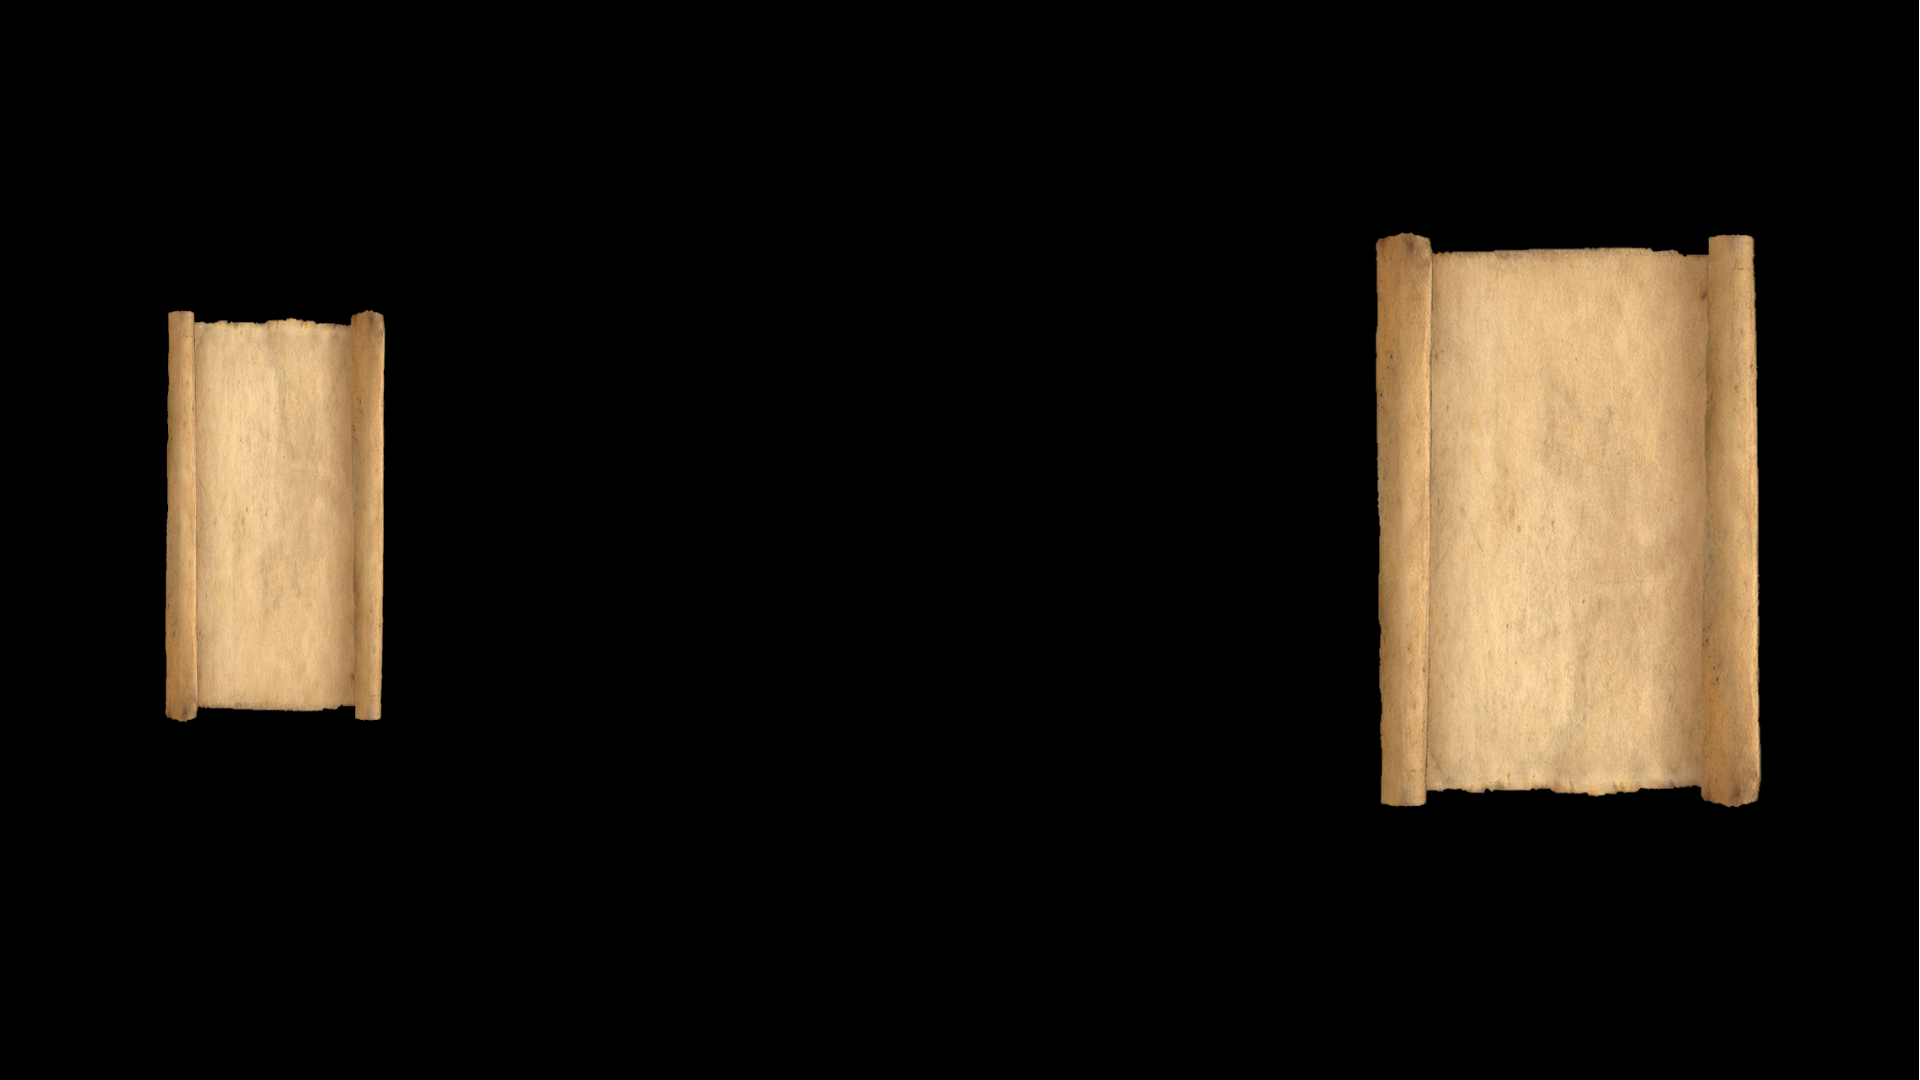
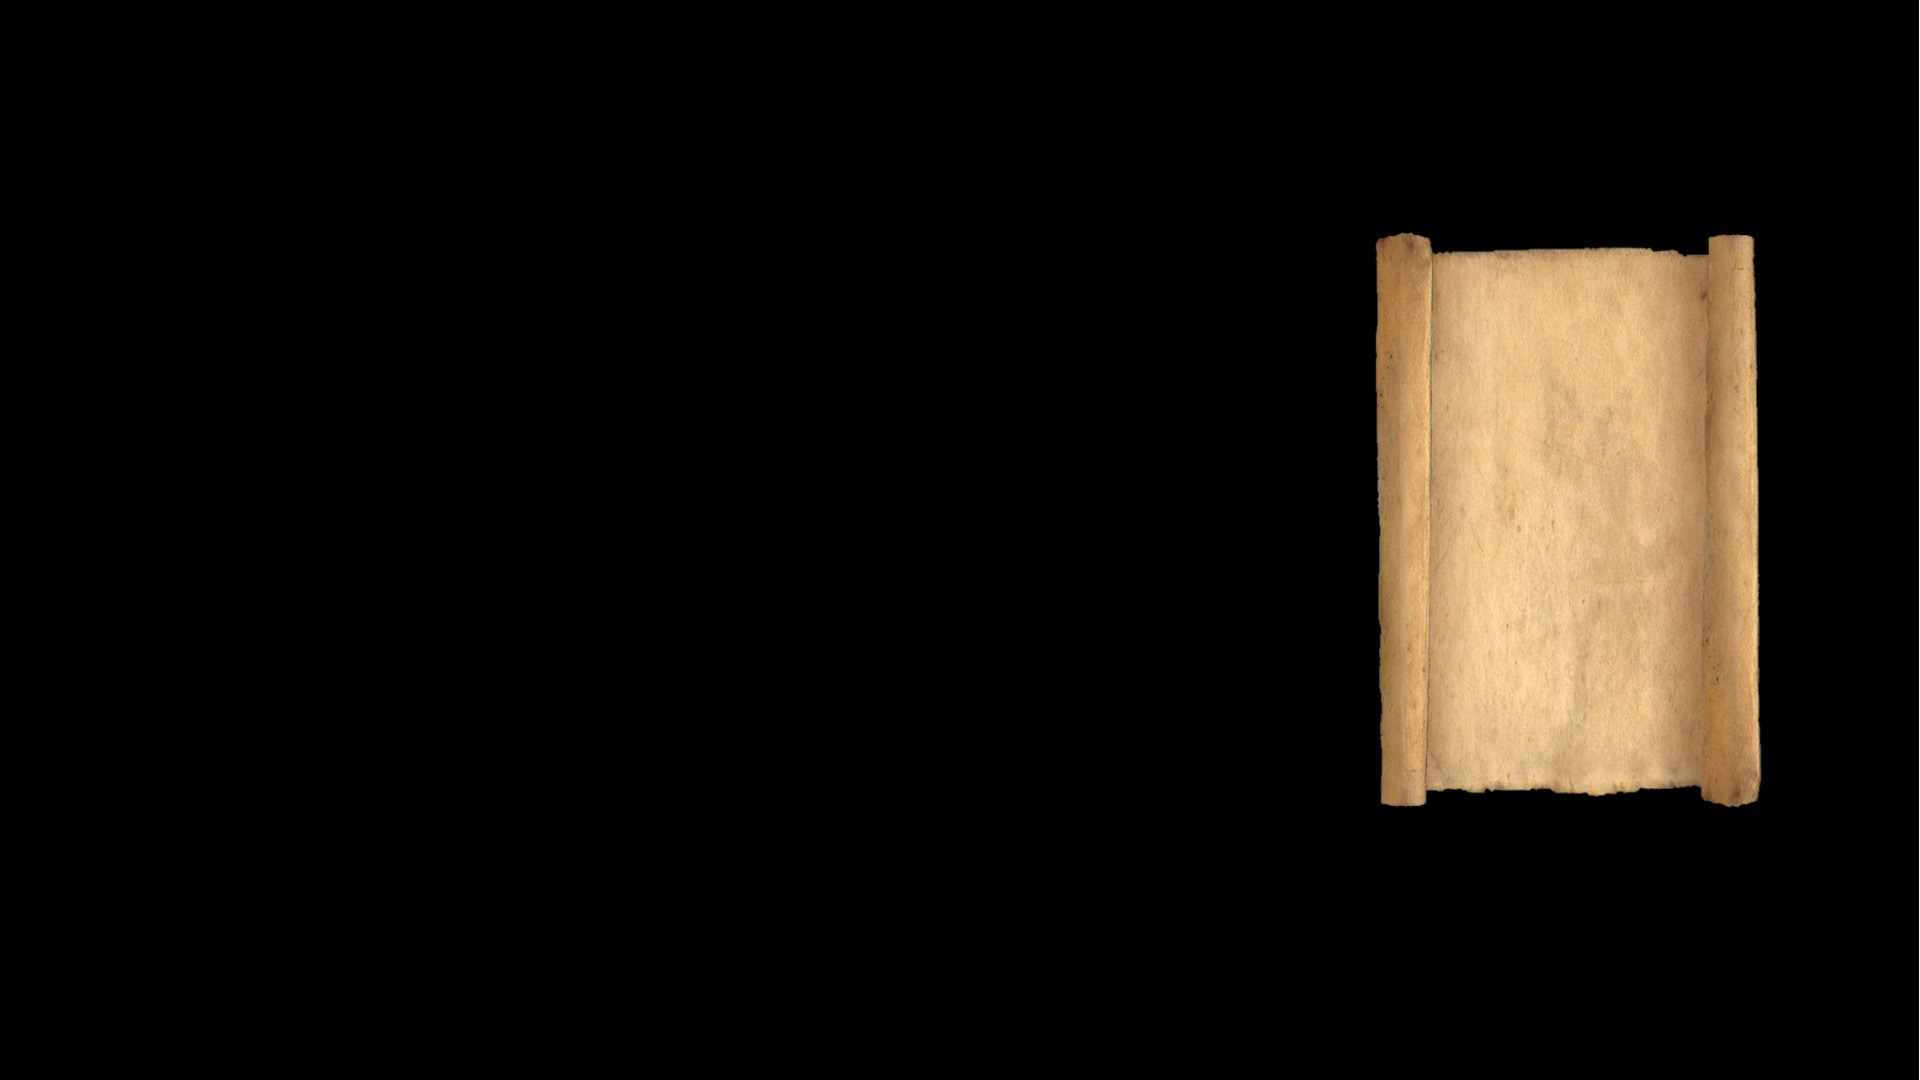
backgrounds work

Changed region(s): [[0.0625, 0.275, 0.2188, 0.6722]]

diff --git a/kiosk/ui.py b/kiosk/ui.py
@@ -85,18 +85,68 @@ class KioskUI:
         self.message_handler.timer.lift_to_top()
             
     def create_help_button(self):
-        """Creates the help request button"""
+        """Creates the help request button using room-specific image"""
         if self.help_button is None and not self.hint_cooldown:
-            self.help_button = tk.Button(
-                self.root,
-                text="REQUEST NEW HINT",
-                command=self.message_handler.request_help,
-                height=5, width=30,
-                font=('Arial', 24),
-                bg='blue', fg='white'
-            )
-            # Position button on the left side
-            self.help_button.place(relx=0.2, rely=0.5, anchor='center')
+            # Get the assigned room number
+            room_number = self.message_handler.assigned_room
+            if not room_number:
+                return
+                
+            # Use same room mapping as backgrounds to get button image
+            button_filename = self.room_config['backgrounds'][room_number]
+            # Replace extension with .png for button image
+            button_filename = button_filename.replace('.png', '.png')
+            button_path = os.path.join("Buttons", button_filename)
+            
+            try:
+                # Load and create button image
+                if os.path.exists(button_path):
+                    button_image = Image.open(button_path)
+                    # Scale button to reasonable size (adjust as needed)
+                    button_image = button_image.resize((400, 150), Image.Resampling.LANCZOS)
+                    button_photo = ImageTk.PhotoImage(button_image)
+                    
+                    # Create image button
+                    self.help_button = tk.Button(
+                        self.root,
+                        image=button_photo,
+                        command=self.message_handler.request_help,
+                        borderwidth=0,
+                        highlightthickness=0,
+                        bd=0,
+                        activebackground='black',
+                        bg='black'
+                    )
+                    # Keep reference to prevent garbage collection
+                    self.help_button.image = button_photo
+                    
+                    # Position button on the left side
+                    self.help_button.place(relx=0.2, rely=0.5, anchor='center')
+                else:
+                    print(f"Button image not found: {button_path}")
+                    # Fallback to text button if image not found
+                    self.help_button = tk.Button(
+                        self.root,
+                        text="REQUEST NEW HINT",
+                        command=self.message_handler.request_help,
+                        height=5, width=30,
+                        font=('Arial', 24),
+                        bg='blue', fg='white'
+                    )
+                    self.help_button.place(relx=0.2, rely=0.5, anchor='center')
+                    
+            except Exception as e:
+                print(f"Error creating button image: {e}")
+                # Fallback to text button on error
+                self.help_button = tk.Button(
+                    self.root,
+                    text="REQUEST NEW HINT",
+                    command=self.message_handler.request_help,
+                    height=5, width=30,
+                    font=('Arial', 24),
+                    bg='blue', fg='white'
+                )
+                self.help_button.place(relx=0.2, rely=0.5, anchor='center')
             
     def show_hint(self, text):
         """Shows the hint text"""
